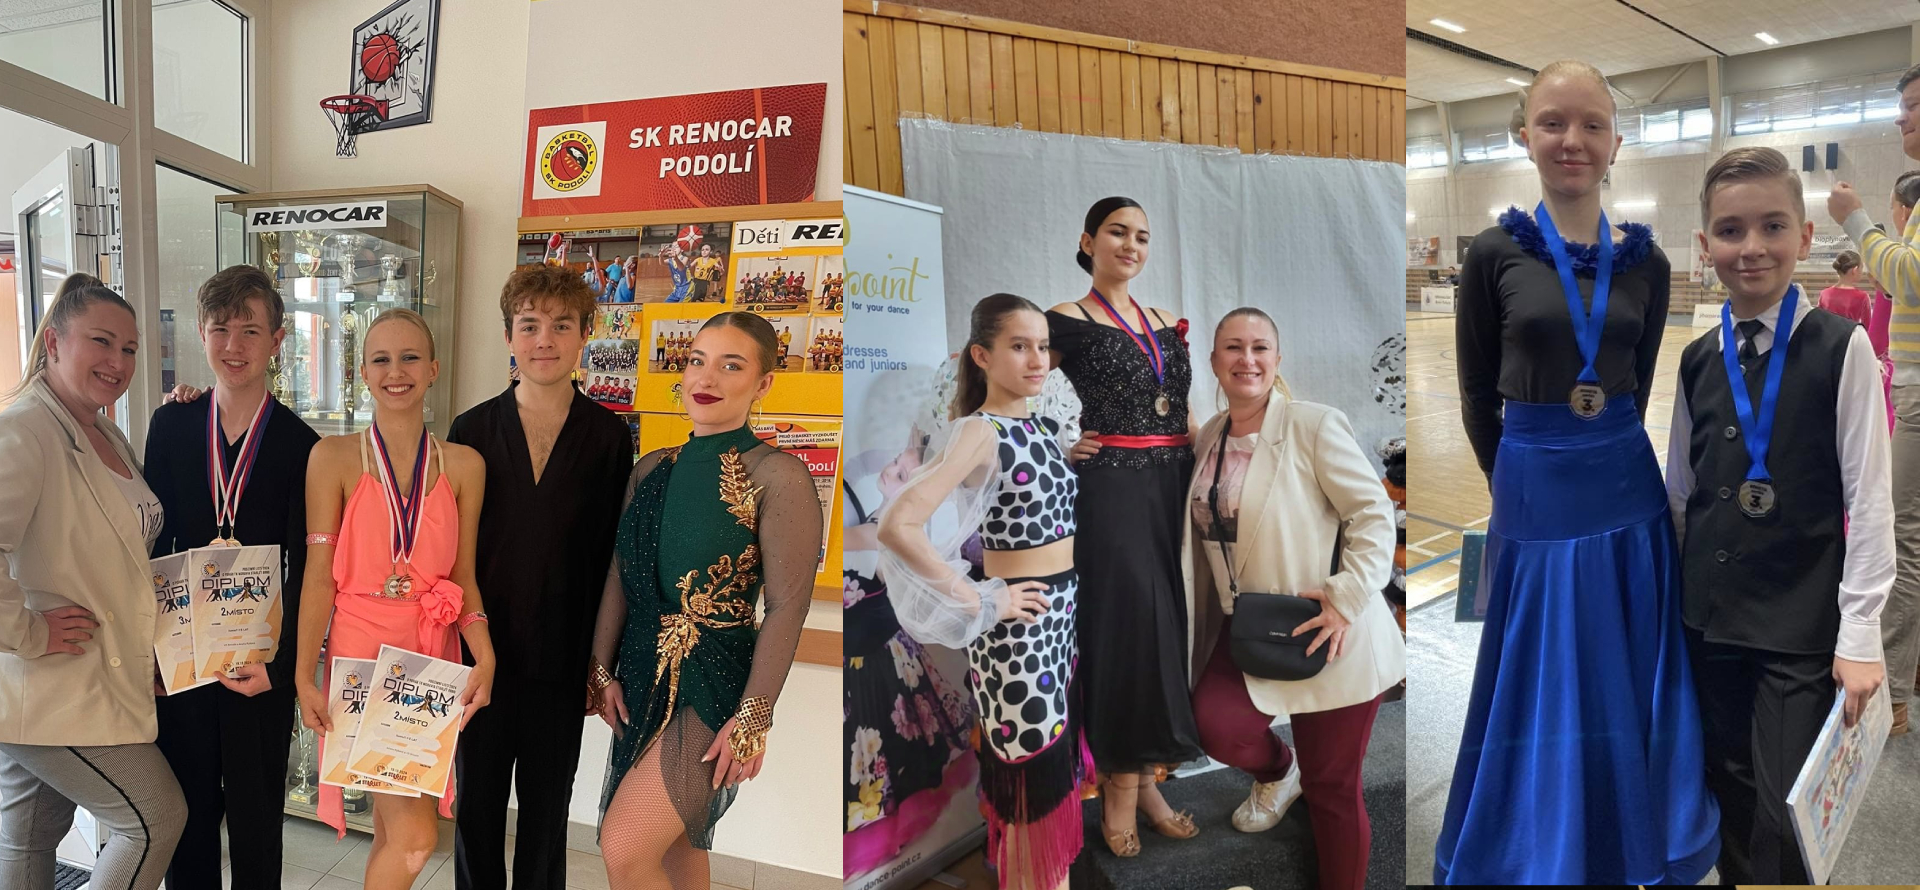
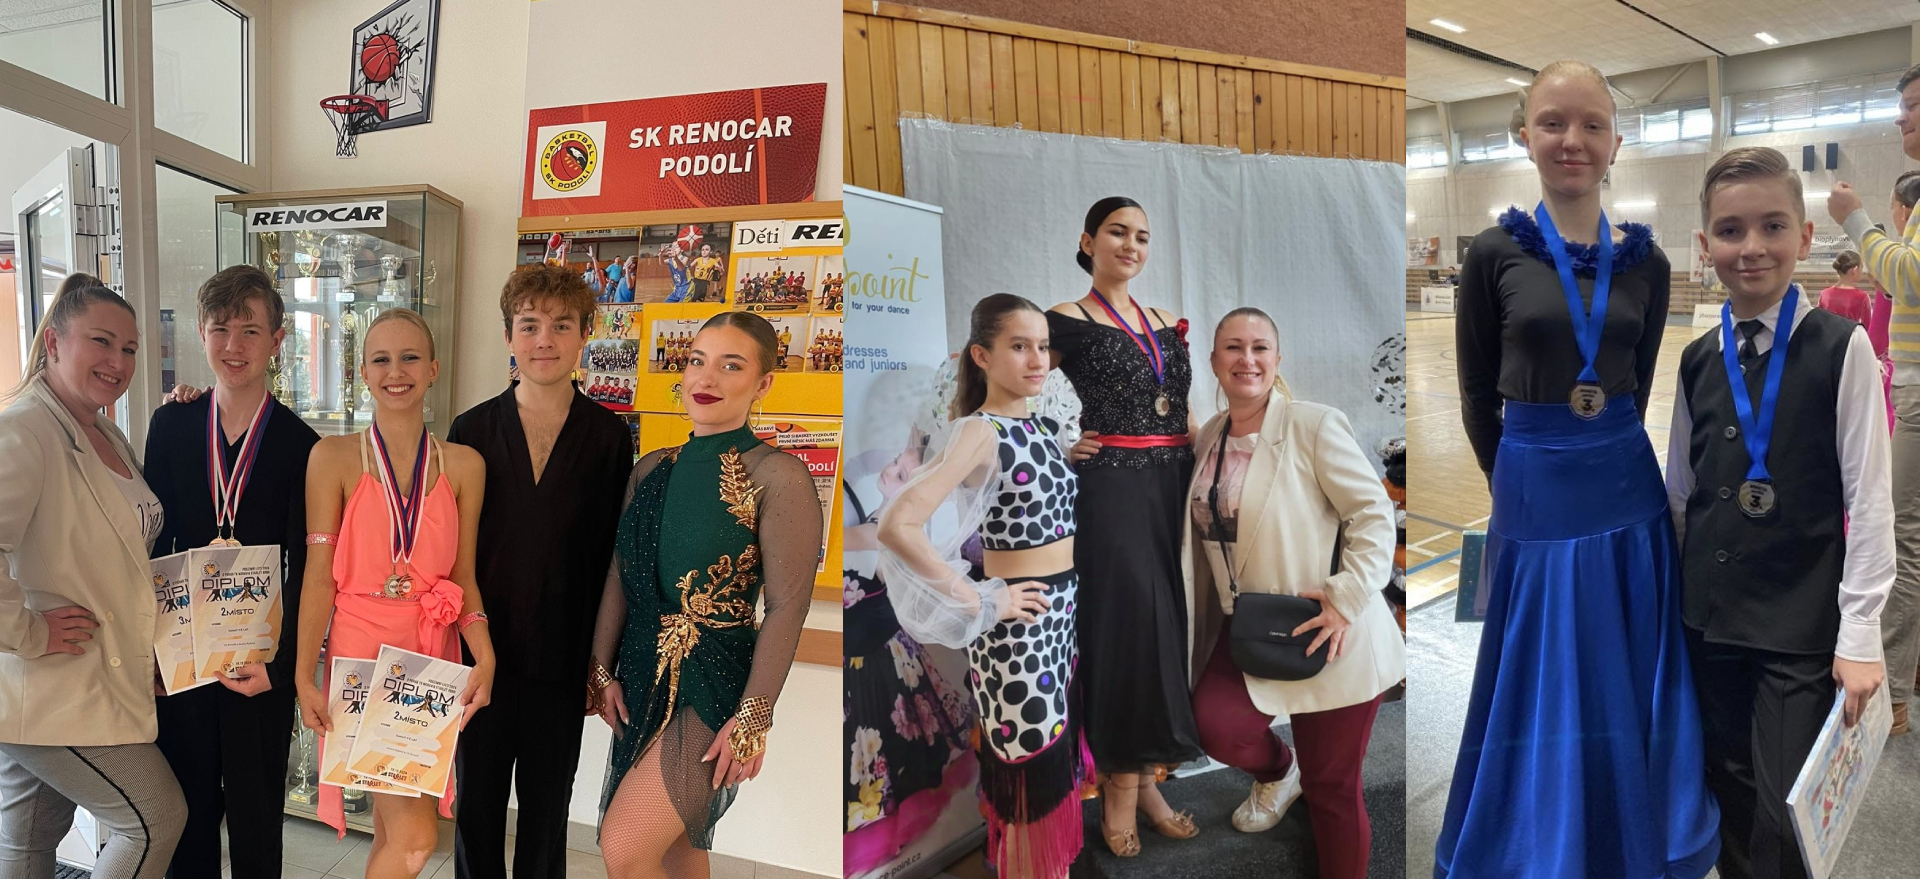
opravena fotka + sipka dolu scroll

diff --git a/src/app/page.js b/src/app/page.js
@@ -1,9 +1,22 @@
+"use client";
+
 import Image from "next/image";
 import Link from "next/link";
 import Navbar from "../components/navbar";
 import Footer from "../components/footer";
 
 export default function Home() {
+
+  const scrollToMain = () => {
+    const scrollTo = document.getElementById("main-content");
+    if (!scrollTo) return;
+    const nav = document.querySelector("nav") || document.getElementById("navbar");
+    const navHeight = nav ? nav.offsetHeight : 0;
+    const gap = 12;
+    const top = scrollTo.getBoundingClientRect().top + window.pageYOffset - navHeight - gap;
+    window.scrollTo({ top, behavior: "smooth" });
+  };
+
   return (
     <div className="min-h-screen font-[family-name:var(--font-geist-sans)]">
       <Navbar />
@@ -20,8 +33,16 @@ export default function Home() {
         <div className="absolute inset-0 flex items-center justify-center">
             <Image src="/sar_dance.png" alt="Logo" width={600} height={600} priority="true" />
         </div>
+
+        <button
+          aria-label="Scroll down"
+          onClick={scrollToMain}
+          className="absolute left-1/2 bottom-20 md:bottom-20 -translate-x-1/2 bg-white/80 dark:bg-black/60 rounded-full p-3 shadow-lg hover:scale-105 transition transform"
+        >
+          <i className="fa fa-arrow-down text-white" aria-hidden="true"></i>
+        </button>
       </div>
-      <div className="p-8 pb-20 sm:p-20 flex flex-col lg:flex-row">
+      <div id="main-content" className="p-8 pb-20 sm:p-20 flex flex-col lg:flex-row">
         <div className="lg:w-1/2 flex flex-col items-center justify-center">
           <p className="text-center">
             Co znamená ŠaR Dance [čtěte dohromady, skoro jako Star Dance]? Šárka a Richard - jsme dva tanečníci a trenéři s láskou k tanci.<br></br>Společně spolu ve svém klubu trénujeme latinskoamerické (Samba, Cha-cha, Rumba, Paso-doble, Jive) a standartní (Waltz, Valčík, Tango, Slowfox, Quickstep) tance už 6 let, a to děti a mládežníky od 6 do 21 let.<br></br>Zaujiali jsme tě?
